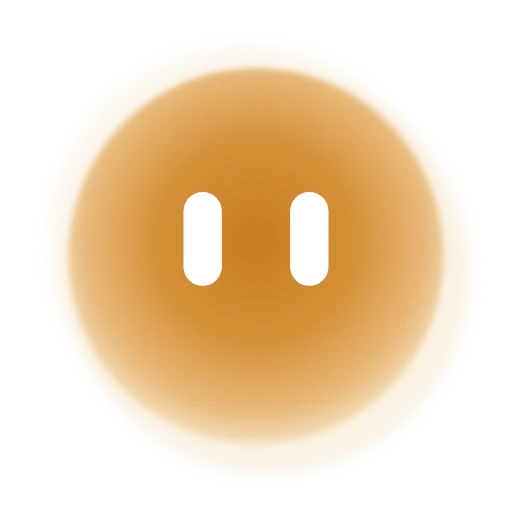
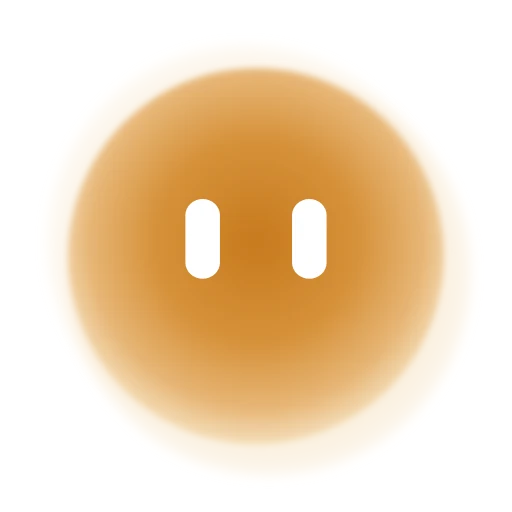
Mascotte : yeux propres à chaque émotion
Les yeux restent des pilules droites, mais leur taille, leur écart, leur hauteur et une petite
animation changent selon l'humeur (tout petits gêné ou effrayé, plissés fâché ou concentré,
mi-clos fatigué, grands surpris, bas triste, hauts pensif, clin d'œil complice, battement
attendri…), avec une transition douce. Autocollants Telegram régénérés.

Claude-Session: https://claude.ai/code/session_01AT7rn9QSeKipCGAkHZqtFR

Changed region(s): [[0.5625, 0.375, 0.6562, 0.5625], [0.3438, 0.375, 0.4375, 0.5625]]

diff --git a/site/assets/face.js b/site/assets/face.js
@@ -7,28 +7,28 @@
   // (4 teintes du centre vers le bord, la dernière colore aussi les halos).
   const C = (a, b, c, d) => [a, b, c, d];
   const MOODS = {
-    neutre: { tint: C('#E19B1F', '#EDB03D', '#F8CC70', '#FFE3A0') },
-    joie: { tint: C('#F0A818', '#F7BD32', '#FDD66B', '#FFEDAE') },
-    rire: { tint: C('#F28A12', '#F8A630', '#FCC468', '#FFE1A8'), anim: 'laugh' },
-    amour: { tint: C('#E0457B', '#EE6A97', '#F7A3C0', '#FFD3E2') },
-    fierte: { tint: C('#7A4BD8', '#9166E6', '#B596F2', '#DCCBFF') },
-    excite: { tint: C('#F06A12', '#F7872E', '#FBAE66', '#FFD6AE'), anim: 'hop' },
-    clin: { tint: C('#14A3A0', '#25BAB4', '#6AD6CF', '#B8F1EC') },
-    malice: { tint: C('#8E3FB8', '#A659CC', '#C68DE0', '#EACBF7') },
-    surprise: { tint: C('#16A6D8', '#30BCE8', '#76D6F3', '#BFEEFC') },
-    reflexion: { tint: C('#4256C9', '#5A6FDB', '#8E9DEB', '#C9D1FA') },
-    concentration: { tint: C('#2558B8', '#3570D0', '#6E9CE6', '#B5CDF7') },
-    confus: { tint: C('#7C7FA0', '#9396B4', '#B6B8CF', '#DEDFEB') },
-    inquiet: { tint: C('#C77A1E', '#D6913A', '#E6B575', '#F5DDB8') },
-    triste: { tint: C('#2F6FE0', '#3F82F0', '#7EAEF8', '#C3DBFF') },
-    colere: { tint: C('#C8231C', '#E0352B', '#F06A55', '#FFA593'), anim: 'shake' },
-    peur: { tint: C('#6E5BB8', '#8574CC', '#AB9FE2', '#D9D2F7'), anim: 'tremble' },
-    gene: { tint: C('#E2557A', '#EE7896', '#F6A9BD', '#FFD8E2') },
-    fatigue: { tint: C('#5F7287', '#768A9F', '#A1B1C2', '#D2DBE4') },
-    ecoute: { tint: C('#2E9E5B', '#43B672', '#7CD29E', '#C2EDD3') },
-    regarde: { tint: C('#0E8FB8', '#22A7CF', '#64C6E2', '#B2E6F4'), anim: 'look' },
-    parle: { tint: C('#D8A112', '#E8B62C', '#F3CF68', '#FCEAB0'), anim: 'talk' },
-    cache: { tint: C('#8A6E4B', '#A08562', '#C1AA8C', '#E5D8C6') },
+    neutre: { tint: C('#E19B1F', '#EDB03D', '#F8CC70', '#FFE3A0'), eyes: {} },
+    joie: { tint: C('#F0A818', '#F7BD32', '#FDD66B', '#FFEDAE'), eyes: { l: [1, .8], r: [1, .8], d: [0, -2], a: 'bob' } },
+    rire: { tint: C('#F28A12', '#F8A630', '#FCC468', '#FFE1A8'), eyes: { l: [1.05, .55], r: [1.05, .55], a: 'giggle' }, anim: 'laugh' },
+    amour: { tint: C('#E0457B', '#EE6A97', '#F7A3C0', '#FFD3E2'), eyes: { l: [1.12, 1.08], r: [1.12, 1.08], a: 'pulse' } },
+    fierte: { tint: C('#7A4BD8', '#9166E6', '#B596F2', '#DCCBFF'), eyes: { l: [1, .62], r: [1, .62], d: [0, -3] } },
+    excite: { tint: C('#F06A12', '#F7872E', '#FBAE66', '#FFD6AE'), eyes: { l: [1.1, 1.2], r: [1.1, 1.2], a: 'sparkle' }, anim: 'hop' },
+    clin: { tint: C('#14A3A0', '#25BAB4', '#6AD6CF', '#B8F1EC'), eyes: { r: [1.05, .12], a: 'wink' } },
+    malice: { tint: C('#8E3FB8', '#A659CC', '#C68DE0', '#EACBF7'), eyes: { l: [1, .55], r: [1, .55], a: 'sly' } },
+    surprise: { tint: C('#16A6D8', '#30BCE8', '#76D6F3', '#BFEEFC'), eyes: { l: [1.3, 1.25], r: [1.3, 1.25], d: [-1.5, -2], a: 'pop' } },
+    reflexion: { tint: C('#4256C9', '#5A6FDB', '#8E9DEB', '#C9D1FA'), eyes: { l: [.95, .9], r: [.95, .9], d: [0, -5], a: 'ponder' } },
+    concentration: { tint: C('#2558B8', '#3570D0', '#6E9CE6', '#B5CDF7'), eyes: { l: [1.05, .45], r: [1.05, .45], d: [2.5, 0] } },
+    confus: { tint: C('#7C7FA0', '#9396B4', '#B6B8CF', '#DEDFEB'), eyes: { l: [1, 1], r: [.95, .6], a: 'ponder' } },
+    inquiet: { tint: C('#C77A1E', '#D6913A', '#E6B575', '#F5DDB8'), eyes: { l: [.9, .85], r: [.9, .85], a: 'dart' } },
+    triste: { tint: C('#2F6FE0', '#3F82F0', '#7EAEF8', '#C3DBFF'), eyes: { l: [.75, .7], r: [.75, .7], d: [-1.5, 4], a: 'sink' } },
+    colere: { tint: C('#C8231C', '#E0352B', '#F06A55', '#FFA593'), eyes: { l: [1.1, .4], r: [1.1, .4], d: [3, 1] }, anim: 'shake' },
+    peur: { tint: C('#6E5BB8', '#8574CC', '#AB9FE2', '#D9D2F7'), eyes: { l: [.6, .7], r: [.6, .7], d: [1.5, 0], a: 'shiver' }, anim: 'tremble' },
+    gene: { tint: C('#E2557A', '#EE7896', '#F6A9BD', '#FFD8E2'), eyes: { l: [.55, .5], r: [.55, .5], d: [0, 3], a: 'shy' } },
+    fatigue: { tint: C('#5F7287', '#768A9F', '#A1B1C2', '#D2DBE4'), eyes: { l: [1, .25], r: [1, .25], d: [0, 3], a: 'droop' } },
+    ecoute: { tint: C('#2E9E5B', '#43B672', '#7CD29E', '#C2EDD3'), eyes: { l: [1, 1.08], r: [1, 1.08], a: 'attent' } },
+    regarde: { tint: C('#0E8FB8', '#22A7CF', '#64C6E2', '#B2E6F4'), eyes: { l: [1.05, 1.05], r: [1.05, 1.05] }, anim: 'look' },
+    parle: { tint: C('#D8A112', '#E8B62C', '#F3CF68', '#FCEAB0'), eyes: { a: 'talk' }, anim: 'talk' },
+    cache: { tint: C('#8A6E4B', '#A08562', '#C1AA8C', '#E5D8C6'), eyes: { l: [1, .08], r: [1, .08] } },
   };
   const TINTS = {
     gold: ['#E19B1F', '#EDB03D', '#F8CC70', '#FFE3A0'],
@@ -113,6 +113,14 @@
     // Yeux : toujours la forme habituelle.
     if (!f.eyes.querySelector('.eye')) { const [le, re] = EYES.pill(); f.eyes.innerHTML = `<g class="brow l">${le}</g><g class="brow r">${re}</g>`; }
     for (const k of ['brows', 'mouth', 'cheeks', 'extra']) f[k].innerHTML = '';
+    // Mouvement des yeux propre à l'humeur : taille, écart, hauteur, et petite animation ; jamais inclinés.
+    const e = (m.eyes && typeof m.eyes === 'object') ? m.eyes : {};
+    const [lx, ly] = e.l || [1, 1], [rx, ry] = e.r || [1, 1], [dx, dy] = e.d || [0, 0];
+    el.style.setProperty('--lsx', lx); el.style.setProperty('--lsy', ly);
+    el.style.setProperty('--rsx', rx); el.style.setProperty('--rsy', ry);
+    el.style.setProperty('--edx', `${dx}px`); el.style.setProperty('--edy', `${dy}px`);
+    [...el.classList].filter((c) => c.startsWith('e-')).forEach((c) => el.classList.remove(c));
+    if (e.a) el.classList.add(`e-${e.a}`);
     // Couleur de l'humeur (transition douce), halos compris.
     const tint = m.tint || MOODS.neutre.tint;
     svg.querySelectorAll('[id^="odinBody"] stop').forEach((st, i) => { st.style.stopColor = tint[i] || tint[3]; });

diff --git a/src/web/face.js b/src/web/face.js
@@ -7,28 +7,28 @@
   // (4 teintes du centre vers le bord, la dernière colore aussi les halos).
   const C = (a, b, c, d) => [a, b, c, d];
   const MOODS = {
-    neutre: { tint: C('#E19B1F', '#EDB03D', '#F8CC70', '#FFE3A0') },
-    joie: { tint: C('#F0A818', '#F7BD32', '#FDD66B', '#FFEDAE') },
-    rire: { tint: C('#F28A12', '#F8A630', '#FCC468', '#FFE1A8'), anim: 'laugh' },
-    amour: { tint: C('#E0457B', '#EE6A97', '#F7A3C0', '#FFD3E2') },
-    fierte: { tint: C('#7A4BD8', '#9166E6', '#B596F2', '#DCCBFF') },
-    excite: { tint: C('#F06A12', '#F7872E', '#FBAE66', '#FFD6AE'), anim: 'hop' },
-    clin: { tint: C('#14A3A0', '#25BAB4', '#6AD6CF', '#B8F1EC') },
-    malice: { tint: C('#8E3FB8', '#A659CC', '#C68DE0', '#EACBF7') },
-    surprise: { tint: C('#16A6D8', '#30BCE8', '#76D6F3', '#BFEEFC') },
-    reflexion: { tint: C('#4256C9', '#5A6FDB', '#8E9DEB', '#C9D1FA') },
-    concentration: { tint: C('#2558B8', '#3570D0', '#6E9CE6', '#B5CDF7') },
-    confus: { tint: C('#7C7FA0', '#9396B4', '#B6B8CF', '#DEDFEB') },
-    inquiet: { tint: C('#C77A1E', '#D6913A', '#E6B575', '#F5DDB8') },
-    triste: { tint: C('#2F6FE0', '#3F82F0', '#7EAEF8', '#C3DBFF') },
-    colere: { tint: C('#C8231C', '#E0352B', '#F06A55', '#FFA593'), anim: 'shake' },
-    peur: { tint: C('#6E5BB8', '#8574CC', '#AB9FE2', '#D9D2F7'), anim: 'tremble' },
-    gene: { tint: C('#E2557A', '#EE7896', '#F6A9BD', '#FFD8E2') },
-    fatigue: { tint: C('#5F7287', '#768A9F', '#A1B1C2', '#D2DBE4') },
-    ecoute: { tint: C('#2E9E5B', '#43B672', '#7CD29E', '#C2EDD3') },
-    regarde: { tint: C('#0E8FB8', '#22A7CF', '#64C6E2', '#B2E6F4'), anim: 'look' },
-    parle: { tint: C('#D8A112', '#E8B62C', '#F3CF68', '#FCEAB0'), anim: 'talk' },
-    cache: { tint: C('#8A6E4B', '#A08562', '#C1AA8C', '#E5D8C6') },
+    neutre: { tint: C('#E19B1F', '#EDB03D', '#F8CC70', '#FFE3A0'), eyes: {} },
+    joie: { tint: C('#F0A818', '#F7BD32', '#FDD66B', '#FFEDAE'), eyes: { l: [1, .8], r: [1, .8], d: [0, -2], a: 'bob' } },
+    rire: { tint: C('#F28A12', '#F8A630', '#FCC468', '#FFE1A8'), eyes: { l: [1.05, .55], r: [1.05, .55], a: 'giggle' }, anim: 'laugh' },
+    amour: { tint: C('#E0457B', '#EE6A97', '#F7A3C0', '#FFD3E2'), eyes: { l: [1.12, 1.08], r: [1.12, 1.08], a: 'pulse' } },
+    fierte: { tint: C('#7A4BD8', '#9166E6', '#B596F2', '#DCCBFF'), eyes: { l: [1, .62], r: [1, .62], d: [0, -3] } },
+    excite: { tint: C('#F06A12', '#F7872E', '#FBAE66', '#FFD6AE'), eyes: { l: [1.1, 1.2], r: [1.1, 1.2], a: 'sparkle' }, anim: 'hop' },
+    clin: { tint: C('#14A3A0', '#25BAB4', '#6AD6CF', '#B8F1EC'), eyes: { r: [1.05, .12], a: 'wink' } },
+    malice: { tint: C('#8E3FB8', '#A659CC', '#C68DE0', '#EACBF7'), eyes: { l: [1, .55], r: [1, .55], a: 'sly' } },
+    surprise: { tint: C('#16A6D8', '#30BCE8', '#76D6F3', '#BFEEFC'), eyes: { l: [1.3, 1.25], r: [1.3, 1.25], d: [-1.5, -2], a: 'pop' } },
+    reflexion: { tint: C('#4256C9', '#5A6FDB', '#8E9DEB', '#C9D1FA'), eyes: { l: [.95, .9], r: [.95, .9], d: [0, -5], a: 'ponder' } },
+    concentration: { tint: C('#2558B8', '#3570D0', '#6E9CE6', '#B5CDF7'), eyes: { l: [1.05, .45], r: [1.05, .45], d: [2.5, 0] } },
+    confus: { tint: C('#7C7FA0', '#9396B4', '#B6B8CF', '#DEDFEB'), eyes: { l: [1, 1], r: [.95, .6], a: 'ponder' } },
+    inquiet: { tint: C('#C77A1E', '#D6913A', '#E6B575', '#F5DDB8'), eyes: { l: [.9, .85], r: [.9, .85], a: 'dart' } },
+    triste: { tint: C('#2F6FE0', '#3F82F0', '#7EAEF8', '#C3DBFF'), eyes: { l: [.75, .7], r: [.75, .7], d: [-1.5, 4], a: 'sink' } },
+    colere: { tint: C('#C8231C', '#E0352B', '#F06A55', '#FFA593'), eyes: { l: [1.1, .4], r: [1.1, .4], d: [3, 1] }, anim: 'shake' },
+    peur: { tint: C('#6E5BB8', '#8574CC', '#AB9FE2', '#D9D2F7'), eyes: { l: [.6, .7], r: [.6, .7], d: [1.5, 0], a: 'shiver' }, anim: 'tremble' },
+    gene: { tint: C('#E2557A', '#EE7896', '#F6A9BD', '#FFD8E2'), eyes: { l: [.55, .5], r: [.55, .5], d: [0, 3], a: 'shy' } },
+    fatigue: { tint: C('#5F7287', '#768A9F', '#A1B1C2', '#D2DBE4'), eyes: { l: [1, .25], r: [1, .25], d: [0, 3], a: 'droop' } },
+    ecoute: { tint: C('#2E9E5B', '#43B672', '#7CD29E', '#C2EDD3'), eyes: { l: [1, 1.08], r: [1, 1.08], a: 'attent' } },
+    regarde: { tint: C('#0E8FB8', '#22A7CF', '#64C6E2', '#B2E6F4'), eyes: { l: [1.05, 1.05], r: [1.05, 1.05] }, anim: 'look' },
+    parle: { tint: C('#D8A112', '#E8B62C', '#F3CF68', '#FCEAB0'), eyes: { a: 'talk' }, anim: 'talk' },
+    cache: { tint: C('#8A6E4B', '#A08562', '#C1AA8C', '#E5D8C6'), eyes: { l: [1, .08], r: [1, .08] } },
   };
   const TINTS = {
     gold: ['#E19B1F', '#EDB03D', '#F8CC70', '#FFE3A0'],
@@ -113,6 +113,14 @@
     // Yeux : toujours la forme habituelle.
     if (!f.eyes.querySelector('.eye')) { const [le, re] = EYES.pill(); f.eyes.innerHTML = `<g class="brow l">${le}</g><g class="brow r">${re}</g>`; }
     for (const k of ['brows', 'mouth', 'cheeks', 'extra']) f[k].innerHTML = '';
+    // Mouvement des yeux propre à l'humeur : taille, écart, hauteur, et petite animation ; jamais inclinés.
+    const e = (m.eyes && typeof m.eyes === 'object') ? m.eyes : {};
+    const [lx, ly] = e.l || [1, 1], [rx, ry] = e.r || [1, 1], [dx, dy] = e.d || [0, 0];
+    el.style.setProperty('--lsx', lx); el.style.setProperty('--lsy', ly);
+    el.style.setProperty('--rsx', rx); el.style.setProperty('--rsy', ry);
+    el.style.setProperty('--edx', `${dx}px`); el.style.setProperty('--edy', `${dy}px`);
+    [...el.classList].filter((c) => c.startsWith('e-')).forEach((c) => el.classList.remove(c));
+    if (e.a) el.classList.add(`e-${e.a}`);
     // Couleur de l'humeur (transition douce), halos compris.
     const tint = m.tint || MOODS.neutre.tint;
     svg.querySelectorAll('[id^="odinBody"] stop').forEach((st, i) => { st.style.stopColor = tint[i] || tint[3]; });

diff --git a/src/web/ui.html b/src/web/ui.html
@@ -24,7 +24,41 @@ nav.side{width:232px;flex:none;border-right:1px solid var(--line);padding:20px 1
 .odin{display:inline-block;position:relative}.odin svg{display:block;width:100%;height:100%;overflow:visible}
 .odin .body{transform-origin:60px 60px;animation:o-breathe 4.4s ease-in-out infinite}
 .odin .eyes{animation:o-glance 11s ease-in-out infinite}
-.odin .brow{transform:none!important;animation:none!important}
+/* Yeux d'Odin selon l'humeur : toujours des pilules droites ; seules leur taille, leur position
+   et une petite animation changent. Jamais de rotation. */
+.odin .brow{transform-box:fill-box;transform-origin:center;transition:scale .45s cubic-bezier(.3,1.4,.5,1),translate .45s cubic-bezier(.3,1.4,.5,1)}
+.odin .brow.l{scale:var(--lsx,1) var(--lsy,1);translate:var(--edx,0px) var(--edy,0px)}
+.odin .brow.r{scale:var(--rsx,1) var(--rsy,1);translate:calc(-1 * var(--edx,0px)) var(--edy,0px)}
+.odin.e-bob .brow{animation:e-bob 1.6s ease-in-out infinite}
+.odin.e-giggle .brow{animation:e-giggle .32s ease-in-out infinite}
+.odin.e-pulse .brow{animation:e-pulse 1.1s ease-in-out infinite}
+.odin.e-sparkle .brow{animation:e-sparkle .5s ease-in-out infinite}
+.odin.e-wink .brow.r{animation:e-wink 1.4s ease-in-out infinite}
+.odin.e-sly .brow{animation:e-sly 2.4s ease-in-out infinite}
+.odin.e-pop .brow{animation:e-pop .6s cubic-bezier(.3,1.8,.5,1)}
+.odin.e-ponder .brow{animation:e-ponder 3s ease-in-out infinite}
+.odin.e-dart .brow{animation:e-dart 1.4s steps(1) infinite}
+.odin.e-sink .brow{animation:e-sink 2.6s ease-in-out infinite}
+.odin.e-shiver .brow{animation:e-shiver .12s linear infinite}
+.odin.e-shy .brow{animation:e-shy 2.2s ease-in-out infinite}
+.odin.e-droop .brow{animation:e-droop 2.8s ease-in-out infinite}
+.odin.e-attent .brow{animation:e-attent 1.8s ease-in-out infinite}
+.odin.e-talk .brow{animation:e-bob .4s ease-in-out infinite}
+@keyframes e-bob{0%,100%{transform:translateY(0)}50%{transform:translateY(-2px)}}
+@keyframes e-giggle{0%,100%{transform:translateY(0) scaleY(1)}50%{transform:translateY(-1.5px) scaleY(.75)}}
+@keyframes e-pulse{0%,100%{transform:scale(1)}15%{transform:scale(1.18)}30%{transform:scale(1)}45%{transform:scale(1.12)}}
+@keyframes e-sparkle{0%,100%{transform:scale(1)}50%{transform:scale(1.12)}}
+@keyframes e-wink{0%,70%,100%{transform:scaleY(1)}80%,90%{transform:scaleY(1.4)}}
+@keyframes e-sly{0%,100%{transform:translateX(0)}30%,55%{transform:translateX(3px)}}
+@keyframes e-pop{0%{transform:scale(.6)}60%{transform:scale(1.15)}100%{transform:scale(1)}}
+@keyframes e-ponder{0%,100%{transform:translateX(0)}35%,60%{transform:translateX(-3px)}}
+@keyframes e-dart{0%{transform:translateX(0)}25%{transform:translateX(-3px)}50%{transform:translateX(3px)}75%{transform:translateX(0)}}
+@keyframes e-sink{0%,100%{transform:translateY(0)}50%{transform:translateY(1.5px)}}
+@keyframes e-shiver{0%,100%{transform:translateX(0)}50%{transform:translateX(.8px)}}
+@keyframes e-shy{0%,100%{transform:translateX(0)}50%{transform:translateX(2.5px)}}
+@keyframes e-droop{0%,100%{transform:scaleY(1)}50%{transform:scaleY(.4)}}
+@keyframes e-attent{0%,100%{transform:scale(1)}50%{transform:scale(1.06,1.1)}}
+@media (prefers-reduced-motion:reduce){.odin .brow{animation:none!important}}
 .odin .eye{transform-box:fill-box;transform-origin:center;animation:o-blink 5.2s infinite}
 .odin.thinking .body{animation-duration:1.8s}
 .odin.talking .body{animation:o-talk .5s ease-in-out infinite}

diff --git a/site/assets/site.css b/site/assets/site.css
@@ -142,7 +142,41 @@ section{padding-block:clamp(56px,9vw,104px)}
 .odin svg{display:block;width:100%;height:100%;overflow:visible}
 .odin .body{transform-origin:60px 60px;animation:o-breathe 4.4s ease-in-out infinite}
 .odin .eyes{animation:o-glance 11s ease-in-out infinite}
-.odin .brow{transform:none!important;animation:none!important}
+/* Yeux d'Odin selon l'humeur : toujours des pilules droites ; seules leur taille, leur position
+   et une petite animation changent. Jamais de rotation. */
+.odin .brow{transform-box:fill-box;transform-origin:center;transition:scale .45s cubic-bezier(.3,1.4,.5,1),translate .45s cubic-bezier(.3,1.4,.5,1)}
+.odin .brow.l{scale:var(--lsx,1) var(--lsy,1);translate:var(--edx,0px) var(--edy,0px)}
+.odin .brow.r{scale:var(--rsx,1) var(--rsy,1);translate:calc(-1 * var(--edx,0px)) var(--edy,0px)}
+.odin.e-bob .brow{animation:e-bob 1.6s ease-in-out infinite}
+.odin.e-giggle .brow{animation:e-giggle .32s ease-in-out infinite}
+.odin.e-pulse .brow{animation:e-pulse 1.1s ease-in-out infinite}
+.odin.e-sparkle .brow{animation:e-sparkle .5s ease-in-out infinite}
+.odin.e-wink .brow.r{animation:e-wink 1.4s ease-in-out infinite}
+.odin.e-sly .brow{animation:e-sly 2.4s ease-in-out infinite}
+.odin.e-pop .brow{animation:e-pop .6s cubic-bezier(.3,1.8,.5,1)}
+.odin.e-ponder .brow{animation:e-ponder 3s ease-in-out infinite}
+.odin.e-dart .brow{animation:e-dart 1.4s steps(1) infinite}
+.odin.e-sink .brow{animation:e-sink 2.6s ease-in-out infinite}
+.odin.e-shiver .brow{animation:e-shiver .12s linear infinite}
+.odin.e-shy .brow{animation:e-shy 2.2s ease-in-out infinite}
+.odin.e-droop .brow{animation:e-droop 2.8s ease-in-out infinite}
+.odin.e-attent .brow{animation:e-attent 1.8s ease-in-out infinite}
+.odin.e-talk .brow{animation:e-bob .4s ease-in-out infinite}
+@keyframes e-bob{0%,100%{transform:translateY(0)}50%{transform:translateY(-2px)}}
+@keyframes e-giggle{0%,100%{transform:translateY(0) scaleY(1)}50%{transform:translateY(-1.5px) scaleY(.75)}}
+@keyframes e-pulse{0%,100%{transform:scale(1)}15%{transform:scale(1.18)}30%{transform:scale(1)}45%{transform:scale(1.12)}}
+@keyframes e-sparkle{0%,100%{transform:scale(1)}50%{transform:scale(1.12)}}
+@keyframes e-wink{0%,70%,100%{transform:scaleY(1)}80%,90%{transform:scaleY(1.4)}}
+@keyframes e-sly{0%,100%{transform:translateX(0)}30%,55%{transform:translateX(3px)}}
+@keyframes e-pop{0%{transform:scale(.6)}60%{transform:scale(1.15)}100%{transform:scale(1)}}
+@keyframes e-ponder{0%,100%{transform:translateX(0)}35%,60%{transform:translateX(-3px)}}
+@keyframes e-dart{0%{transform:translateX(0)}25%{transform:translateX(-3px)}50%{transform:translateX(3px)}75%{transform:translateX(0)}}
+@keyframes e-sink{0%,100%{transform:translateY(0)}50%{transform:translateY(1.5px)}}
+@keyframes e-shiver{0%,100%{transform:translateX(0)}50%{transform:translateX(.8px)}}
+@keyframes e-shy{0%,100%{transform:translateX(0)}50%{transform:translateX(2.5px)}}
+@keyframes e-droop{0%,100%{transform:scaleY(1)}50%{transform:scaleY(.4)}}
+@keyframes e-attent{0%,100%{transform:scale(1)}50%{transform:scale(1.06,1.1)}}
+@media (prefers-reduced-motion:reduce){.odin .brow{animation:none!important}}
 .odin .eye{transform-box:fill-box;transform-origin:center;animation:o-blink 5.2s infinite}
 .odin .eye.r{animation-delay:.04s}
 .odin .halo{transform-origin:60px 60px;animation:o-halo 4.4s ease-in-out infinite}

diff --git a/tools/site/parts/eyes.css b/tools/site/parts/eyes.css
@@ -1,0 +1,35 @@
+/* Yeux d'Odin selon l'humeur : toujours des pilules droites ; seules leur taille, leur position
+   et une petite animation changent. Jamais de rotation. */
+.odin .brow{transform-box:fill-box;transform-origin:center;transition:scale .45s cubic-bezier(.3,1.4,.5,1),translate .45s cubic-bezier(.3,1.4,.5,1)}
+.odin .brow.l{scale:var(--lsx,1) var(--lsy,1);translate:var(--edx,0px) var(--edy,0px)}
+.odin .brow.r{scale:var(--rsx,1) var(--rsy,1);translate:calc(-1 * var(--edx,0px)) var(--edy,0px)}
+.odin.e-bob .brow{animation:e-bob 1.6s ease-in-out infinite}
+.odin.e-giggle .brow{animation:e-giggle .32s ease-in-out infinite}
+.odin.e-pulse .brow{animation:e-pulse 1.1s ease-in-out infinite}
+.odin.e-sparkle .brow{animation:e-sparkle .5s ease-in-out infinite}
+.odin.e-wink .brow.r{animation:e-wink 1.4s ease-in-out infinite}
+.odin.e-sly .brow{animation:e-sly 2.4s ease-in-out infinite}
+.odin.e-pop .brow{animation:e-pop .6s cubic-bezier(.3,1.8,.5,1)}
+.odin.e-ponder .brow{animation:e-ponder 3s ease-in-out infinite}
+.odin.e-dart .brow{animation:e-dart 1.4s steps(1) infinite}
+.odin.e-sink .brow{animation:e-sink 2.6s ease-in-out infinite}
+.odin.e-shiver .brow{animation:e-shiver .12s linear infinite}
+.odin.e-shy .brow{animation:e-shy 2.2s ease-in-out infinite}
+.odin.e-droop .brow{animation:e-droop 2.8s ease-in-out infinite}
+.odin.e-attent .brow{animation:e-attent 1.8s ease-in-out infinite}
+.odin.e-talk .brow{animation:e-bob .4s ease-in-out infinite}
+@keyframes e-bob{0%,100%{transform:translateY(0)}50%{transform:translateY(-2px)}}
+@keyframes e-giggle{0%,100%{transform:translateY(0) scaleY(1)}50%{transform:translateY(-1.5px) scaleY(.75)}}
+@keyframes e-pulse{0%,100%{transform:scale(1)}15%{transform:scale(1.18)}30%{transform:scale(1)}45%{transform:scale(1.12)}}
+@keyframes e-sparkle{0%,100%{transform:scale(1)}50%{transform:scale(1.12)}}
+@keyframes e-wink{0%,70%,100%{transform:scaleY(1)}80%,90%{transform:scaleY(1.4)}}
+@keyframes e-sly{0%,100%{transform:translateX(0)}30%,55%{transform:translateX(3px)}}
+@keyframes e-pop{0%{transform:scale(.6)}60%{transform:scale(1.15)}100%{transform:scale(1)}}
+@keyframes e-ponder{0%,100%{transform:translateX(0)}35%,60%{transform:translateX(-3px)}}
+@keyframes e-dart{0%{transform:translateX(0)}25%{transform:translateX(-3px)}50%{transform:translateX(3px)}75%{transform:translateX(0)}}
+@keyframes e-sink{0%,100%{transform:translateY(0)}50%{transform:translateY(1.5px)}}
+@keyframes e-shiver{0%,100%{transform:translateX(0)}50%{transform:translateX(.8px)}}
+@keyframes e-shy{0%,100%{transform:translateX(0)}50%{transform:translateX(2.5px)}}
+@keyframes e-droop{0%,100%{transform:scaleY(1)}50%{transform:scaleY(.4)}}
+@keyframes e-attent{0%,100%{transform:scale(1)}50%{transform:scale(1.06,1.1)}}
+@media (prefers-reduced-motion:reduce){.odin .brow{animation:none!important}}

diff --git a/README.md b/README.md
@@ -244,7 +244,7 @@ Configure plusieurs modèles (Réglages → Modèle) : un par défaut, des secou
 
 ### Son visage et ses humeurs
 
-Odin a un visage, une petite boule aux deux yeux qui **change de couleur selon son humeur**, une vingtaine en tout : content, rieur, attendri, fier, enthousiaste, complice, malicieux, surpris, pensif, concentré, perplexe, inquiet, triste, fâché, effrayé, gêné, fatigué, à l'écoute, attentif… **Il choisit lui-même son humeur** à chaque réponse, selon ce qu'il vit avec toi. Entre deux réponses, son visage réagit tout seul : il t'écoute quand tu écris ou parles, se concentre quand il travaille, regarde quand tu lui montres une photo (bouton 📷), parle quand il lit sa réponse à voix haute, **ferme les yeux quand tu tapes une clé** dans les réglages, sourit quand un réglage est enregistré, s'endort si on l'oublie. Touche-le : il saute ; touche-le trop, il se fâche, devient rouge, puis bleu, puis redevient jaune. Chaque mouvement a son petit **son**, synthétisé dans le navigateur : « boing » quand il saute, grognement quand il se fâche, petit « tic » quand il ferme puis rouvre les yeux, carillon montant quand il est content, descendant quand il est triste (bouton pour couper les sons, sur le site comme dans l'interface). Sur **Telegram**, il t'envoie l'autocollant de son visage, à la couleur de son humeur, quand elle change (`mood.stickers` dans la configuration).
+Odin a un visage, une petite boule aux deux yeux qui **change de couleur selon son humeur** ; ses yeux, toujours droits, changent de taille, de place et de mouvement selon l'émotion (tout petits quand il est gêné, plissés quand il est fâché, mi-clos quand il est fatigué, grands quand il est surpris, un clin d'œil…). Une vingtaine d'humeurs en tout : content, rieur, attendri, fier, enthousiaste, complice, malicieux, surpris, pensif, concentré, perplexe, inquiet, triste, fâché, effrayé, gêné, fatigué, à l'écoute, attentif… **Il choisit lui-même son humeur** à chaque réponse, selon ce qu'il vit avec toi. Entre deux réponses, son visage réagit tout seul : il t'écoute quand tu écris ou parles, se concentre quand il travaille, regarde quand tu lui montres une photo (bouton 📷), parle quand il lit sa réponse à voix haute, **ferme les yeux quand tu tapes une clé** dans les réglages, sourit quand un réglage est enregistré, s'endort si on l'oublie. Touche-le : il saute ; touche-le trop, il se fâche, devient rouge, puis bleu, puis redevient jaune. Chaque mouvement a son petit **son**, synthétisé dans le navigateur : « boing » quand il saute, grognement quand il se fâche, petit « tic » quand il ferme puis rouvre les yeux, carillon montant quand il est content, descendant quand il est triste (bouton pour couper les sons, sur le site comme dans l'interface). Sur **Telegram**, il t'envoie l'autocollant de son visage, à la couleur de son humeur, quand elle change (`mood.stickers` dans la configuration).
 
 ### Personnes : famille, équipe
 
